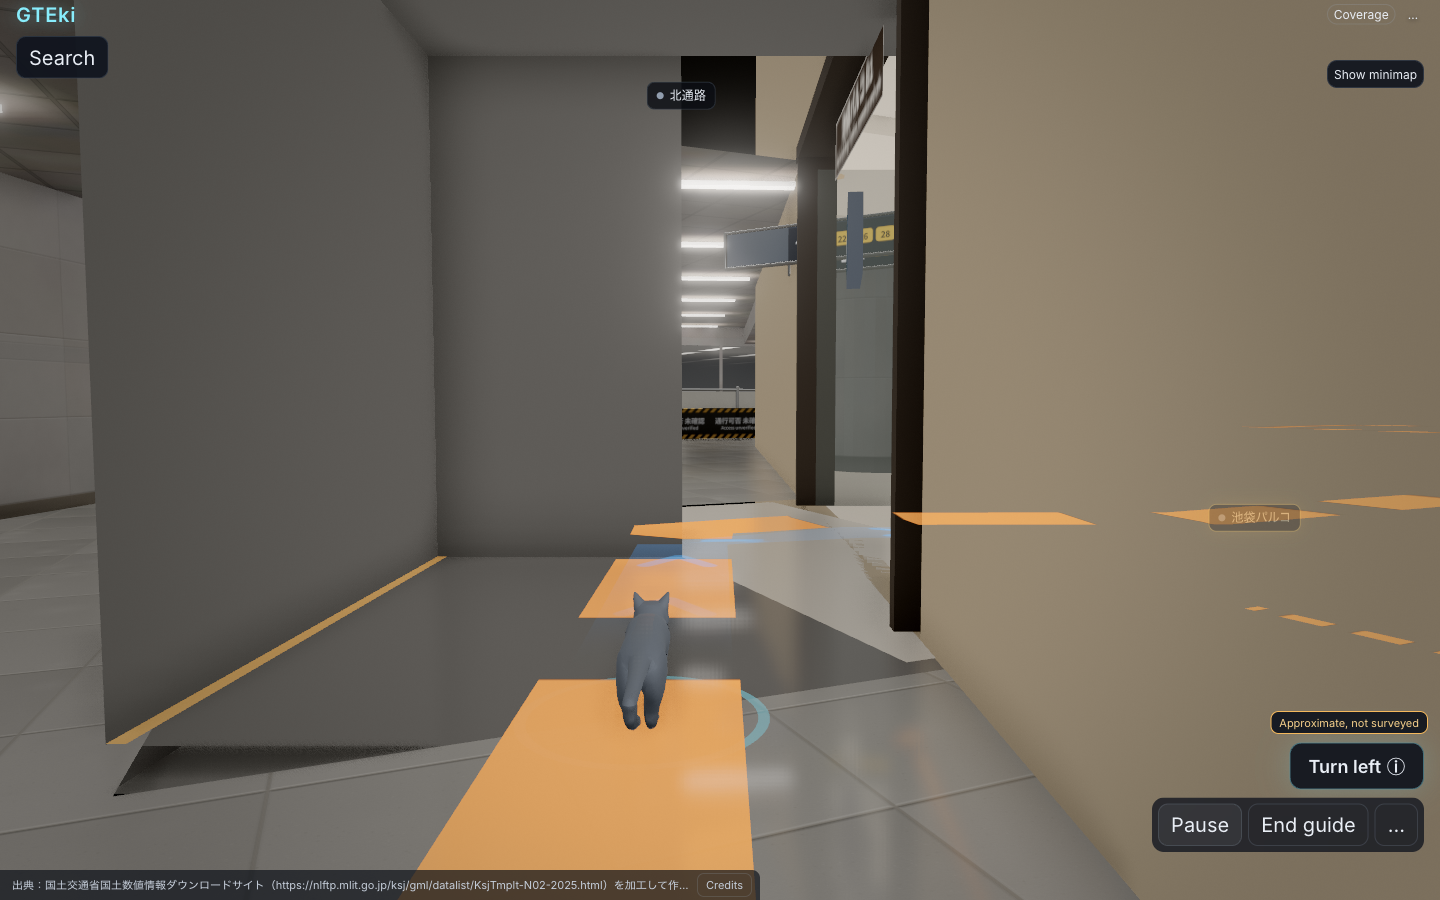
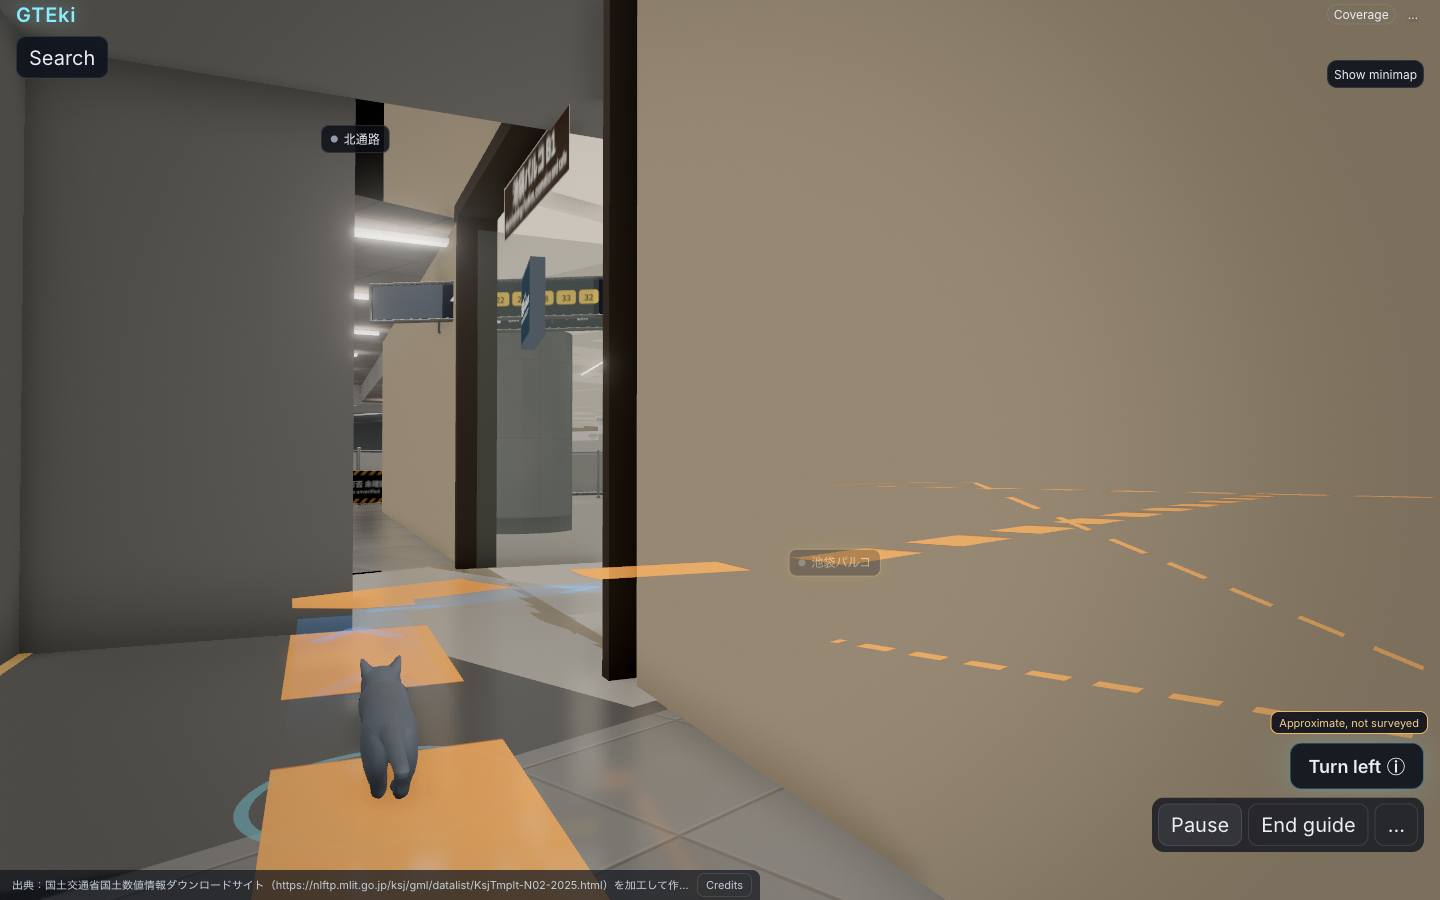
fix(ikebukuro): enlarge PARCO B1 header lettering (2026-11-25 JST)

diff --git a/stations/ikebukuro/scene/depato/interior.ts b/stations/ikebukuro/scene/depato/interior.ts
@@ -126,13 +126,15 @@ export function buildDepatoInterior(ctx: SceneContext, plan: DepatoLayout, envMa
     const canvas=typeof document!=="undefined"?document.createElement("canvas"):null;
     const slots:{x:number;y:number;width:number;height:number}[]=[];
     let atlas:T.CanvasTexture|null=null;
+    const storeRows=levels.map((_,i)=>levels.slice(0,i).reduce((n,l)=>n+l.floor.tenants.length+1,0));
+    const parcoB1Row=plan.input.store.id==="ikebukuro-parco" ? storeRows[levels.findIndex(l=>l.floor.level==="B1")] : -1;
     if(canvas){
       canvas.width=canvas.height=1024;const paint=canvas.getContext("2d")!;
       paint.fillStyle="#EFE9DD";paint.fillRect(0,0,1024,1024);paint.textAlign="center";
-      const storeRows=levels.map((_,i)=>levels.slice(0,i).reduce((n,l)=>n+l.floor.tenants.length+1,0));
       let x=0,y=0,lineHeight=0;
       boards.forEach((b,i)=>{
-        const nameBoard=storeRows.includes(i), px=nameBoard&&boards.length>100?36:fontPx, height=nameBoard&&boards.length>100?80:rowHeight;
+        const nameBoard=storeRows.includes(i), large=i===parcoB1Row || (nameBoard&&boards.length>100);
+        const px=large?36:fontPx, height=large?80:rowHeight;
         paint.font=`600 ${px}px "GTEki Sign JP"`;const ja=paint.measureText(b.ja).width;
         paint.font=`600 ${px*LANDMARK_SIGN.enScale}px "GTEki Sign JP"`;const en=paint.measureText(b.en).width;
         const width=Math.min(1024,Math.ceil(Math.max(ja,en))+rowHeight*0.3);
@@ -206,7 +208,8 @@ export function buildDepatoInterior(ctx: SceneContext, plan: DepatoLayout, envMa
         lit.push(cube(plan.aisleX+side*1.48,l.y+l.clear-0.13,(from!+to!)/2,0.08,0.05,to!-from!));
       }
       const board=(x:number,y:number,z:number,row:number,yaw=0,width=3.8,height=0.6)=>{
-        const slot=slots[row]!, labelHeight=height*0.6;
+        // The B1 approach sees PARCO's header at a steep angle from the guide.
+        const slot=slots[row]!, labelHeight=height*(row===parcoB1Row?0.9:0.6);
         const labelWidth=slot.width/slot.height*labelHeight, scale=Math.min(1,(width-0.1)/labelWidth);
         for(const face of [0,1,-1]){
           const text=face!==0;

diff --git a/docs/visual/evidence/2026-11-23-depato-interior/rollout-ikebukuro/README.md b/docs/visual/evidence/2026-11-23-depato-interior/rollout-ikebukuro/README.md
@@ -6,7 +6,7 @@ The public preview currently has no visitor route into Tobu. Searching for the s
 
 The third art-direction capture completed at 02:27 JST from source `51ddc54f`. Both native Tobu B1 views show the barrier and the concourse beyond. Desktop black pixels are 1.5032% with the flag on and 1.7727% with it off, a 0.2695 percentage-point difference. Phone black pixels are 0.0143% and 0.0337%, a 0.0194-point difference. The desktop Tobu 1F frame uses the original inside position and shows pavement between the apron and road.
 
-The first PARCO run found the doorway already in view at the 19.1 m starting sample and the 2.93 m header was too oblique to read. The next pass starts 50 m back on the guide, records the last occluded sample and turns the follow camera toward the header at 3 m. Each frame carries its source HEAD in `receipt.json`. The other frames and the Package E walks retain their recorded source.
+The PARCO guide capture starts 50 m back, records the last occluded sample and turns the follow camera toward the header at 3 m. At 02:31 JST, source `86b9acbb` recorded first sight at 7.89 m on desktop and 9.24 m on phone. The 2.90 m view still made the lettering hard to read, so the PARCO B1 header now uses a larger atlas slot and larger lettering within the same sign face. Each frame carries its source HEAD in `receipt.json`. The other frames and the Package E walks retain their recorded source.
 
 ## Package E correction — 2026-11-24 JST
 
